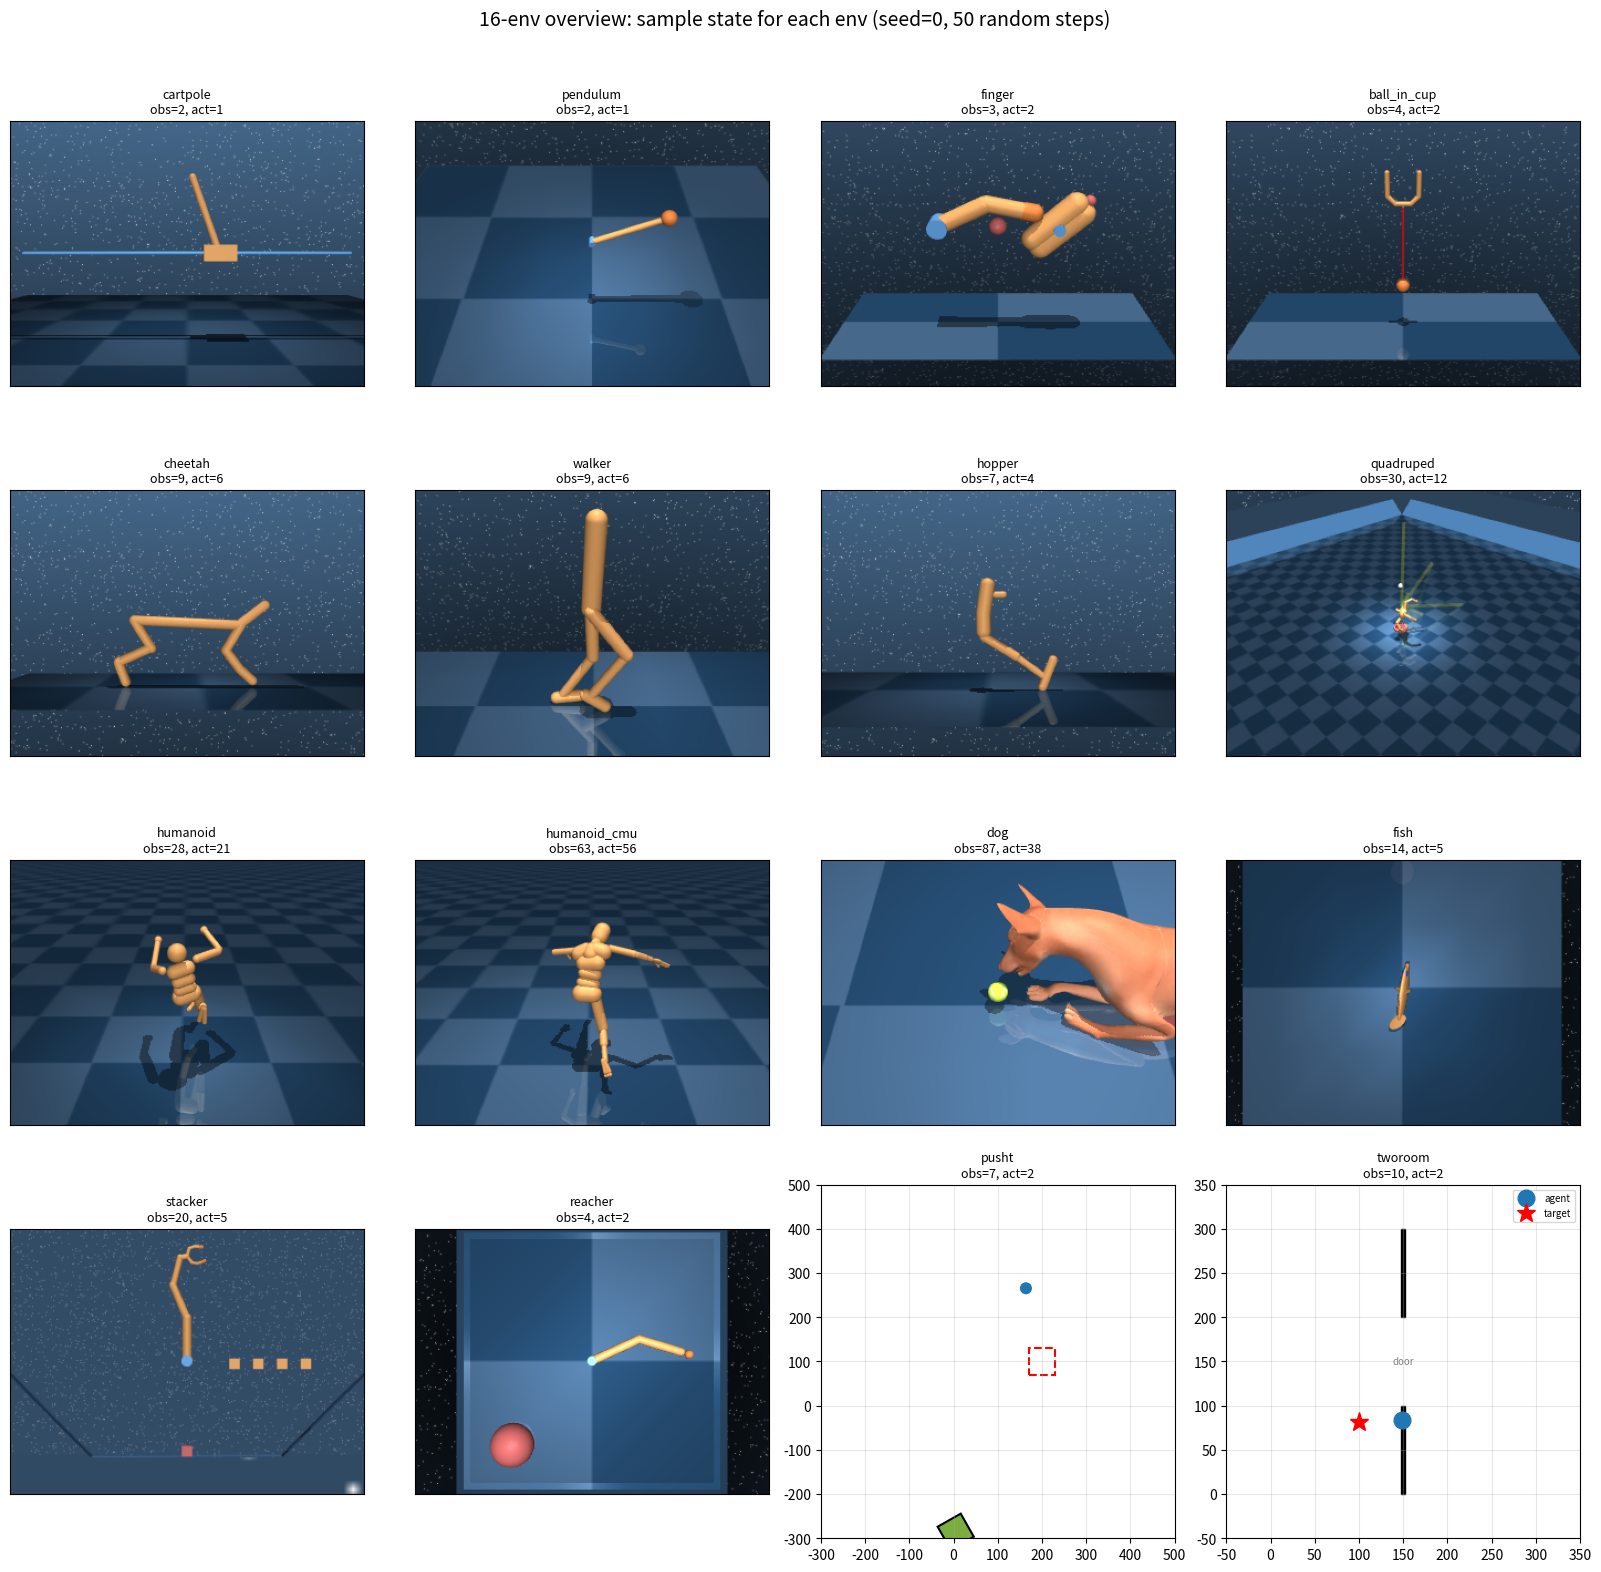
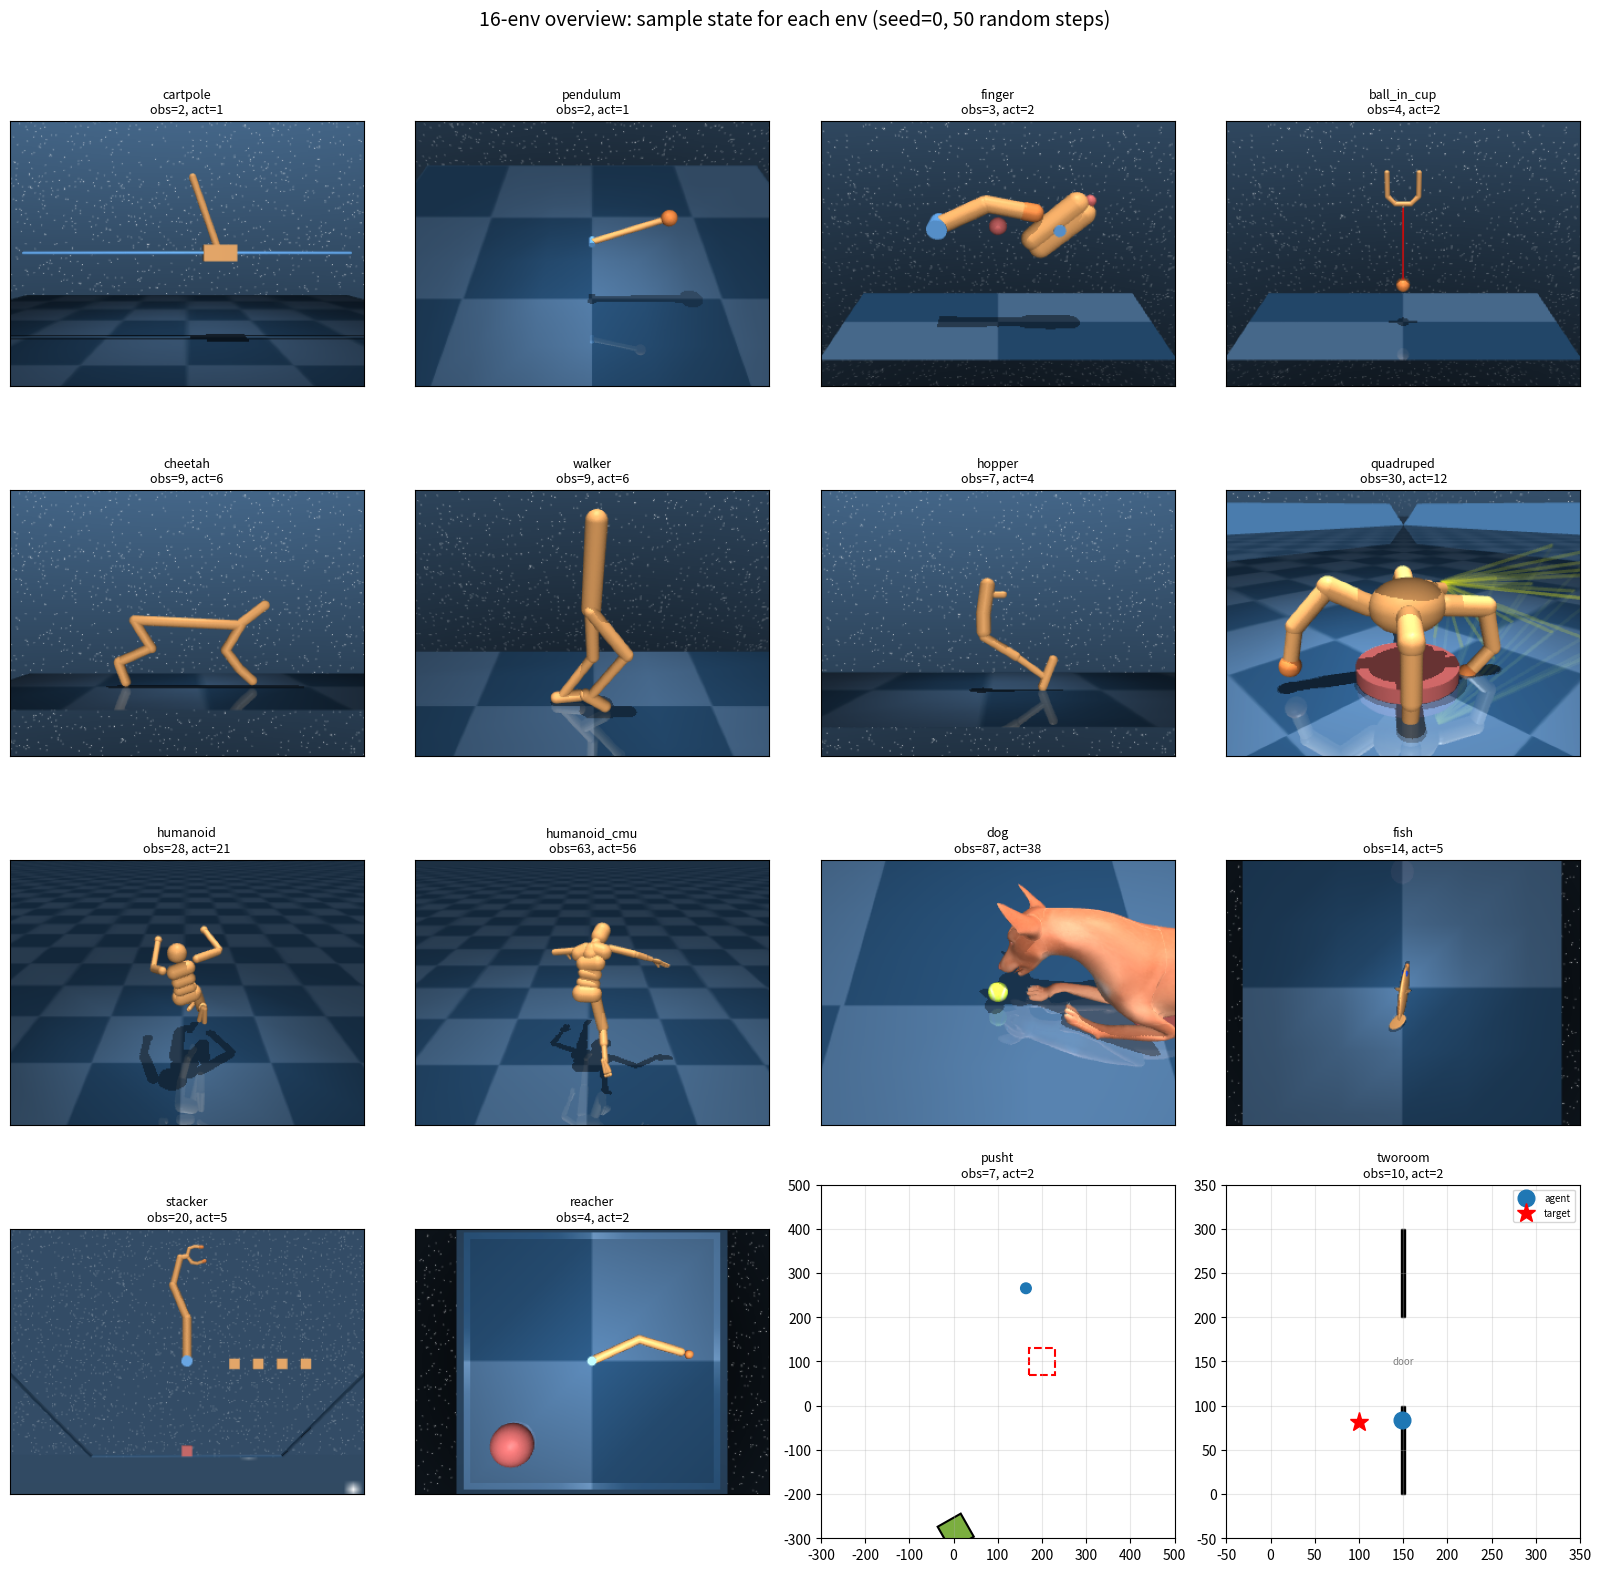
figs: re-render quadruped sample — close-up camera + reset pose
Root causes: (1) the DMC quadruped 'global' camera (fallback cam 0) sits at
(-10,10,10) — far too distant; (2) after 50 random steps the robot falls
over and the splayed limbs no longer read as four legs.

- generate_samples.py: quadruped uses an MjvCamera orbit close-up aimed at
  the body centroid (decorative 'ball' body excluded from extent, adaptive
  distance, azimuth 45, elevation -20) and is captured at the reset pose
  (n_steps=0) instead of after 50 random steps
- regenerate quadruped.png, all_envs_overview.png, obs_samples.json
  (other 15 envs byte-identical; dog.png differs by 6 bytes of PNG metadata)

Changed region(s): [[0.7495, 0.3117, 0.9994, 0.4987]]

diff --git a/paper/figs/dataset_samples/generate_samples.py b/paper/figs/dataset_samples/generate_samples.py
@@ -191,7 +191,13 @@ def _build_env(env_kind: str):
 
 
 def _capture_state(env, env_kind: str, rng: np.random.Generator, n_steps: int = 50):
-    """Reset, take n_steps random actions, capture obs/state and mujoco state."""
+    """Reset, take n_steps random actions, capture obs/state and mujoco state.
+
+    Quadruped is captured at the reset pose (n_steps=0): after 50 random
+    steps it falls over and the splayed limbs no longer read as four legs.
+    """
+    if env_kind == "quadruped":
+        n_steps = 0
     obs = env.reset(seed=0)
     for _ in range(n_steps):
         a = rng.uniform(env.spec.action_low, env.spec.action_high).astype(np.float32)
@@ -212,14 +218,34 @@ def _render_dmc_panel(env, ax, title: str):
     data = env._data
     H, W = 240, 320
     renderer = mujoco.Renderer(model, height=H, width=W)
-    # Pick a camera. Prefer "overview" / tracking camera when available.
-    cam_id = 0
-    for i in range(model.ncam):
-        name = mujoco.mj_id2name(model, mujoco.mjtObj.mjOBJ_CAMERA, i)
-        if name and ("overview" in name.lower() or "track" in name.lower()):
-            cam_id = i
-            break
-    renderer.update_scene(data, camera=cam_id)
+    # Quadruped: the DMC "global" camera (fallback cam 0) sits at (-10, 10, 10)
+    # — far too far to make out the four legs. Use an orbit close-up aimed at
+    # the body centroid instead.
+    env_id = str(getattr(env.spec, "env_id", ""))
+    if "quadruped" in env_id:
+        cam = mujoco.MjvCamera()
+        cam.type = mujoco.mjtCamera.mjCAMERA_FREE
+        # Body centroid + extent (skip world body 0 and decorative bodies such
+        # as the scene ball); distance adapts so the whole robot fits in frame.
+        names = [mujoco.mj_id2name(model, mujoco.mjtObj.mjOBJ_BODY, i)
+                 for i in range(1, model.nbody)]
+        body = data.xpos[1:][np.array([n != "ball" for n in names])]
+        centroid = body.mean(axis=0)
+        radius = float(np.max(np.linalg.norm(body - centroid, axis=1)))
+        cam.lookat[:] = centroid
+        cam.distance = max(1.5, min(3.5, 2.2 * radius))
+        cam.azimuth = 45.0   # degrees: side-front quarter view
+        cam.elevation = -20.0  # degrees: slight top-down (MuJoCo sign: negative = above lookat)
+        renderer.update_scene(data, camera=cam)
+    else:
+        # Pick a camera. Prefer "overview" / tracking camera when available.
+        cam_id = 0
+        for i in range(model.ncam):
+            name = mujoco.mj_id2name(model, mujoco.mjtObj.mjOBJ_CAMERA, i)
+            if name and ("overview" in name.lower() or "track" in name.lower()):
+                cam_id = i
+                break
+        renderer.update_scene(data, camera=cam_id)
     img = renderer.render()  # (H, W, 3) uint8
     ax.imshow(img)
     ax.set_title(title, fontsize=9)
